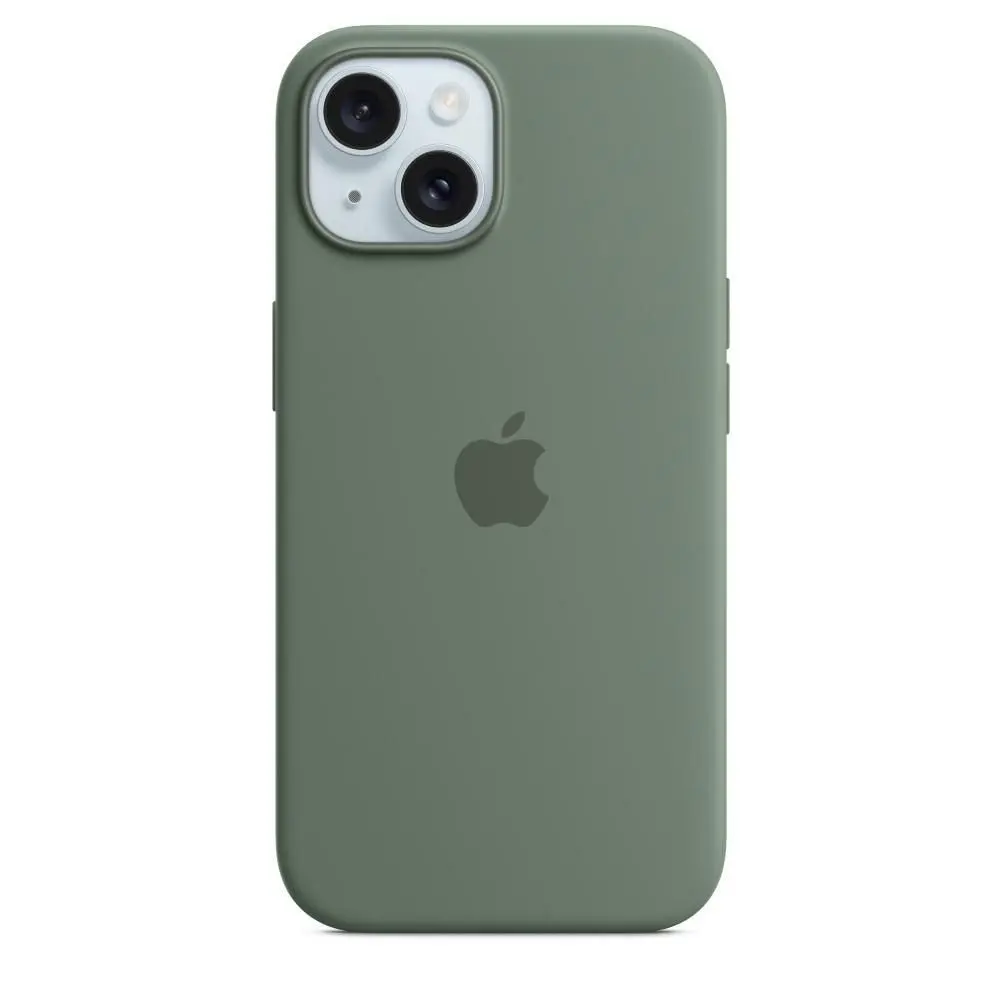
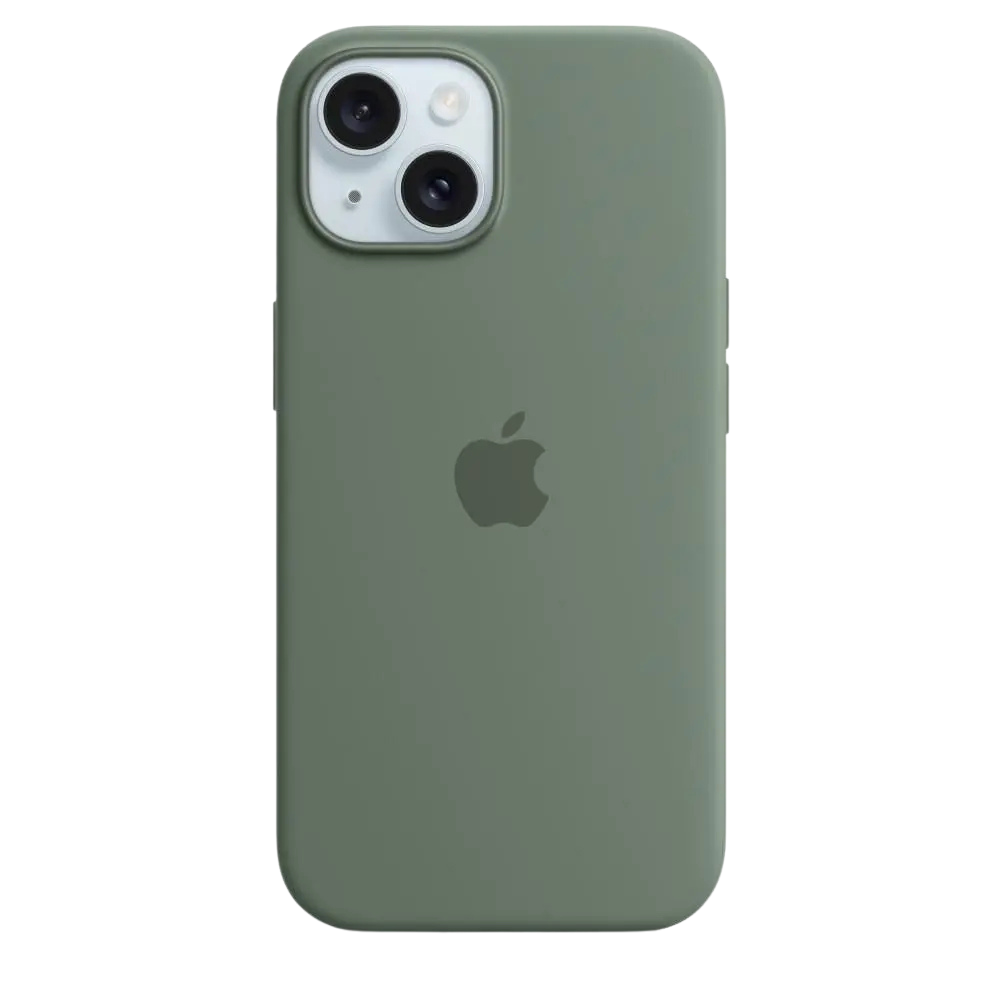
Motos adicionadas e imagem das capinhas alteradas

Changed region(s): [[0.31, 0.93, 0.682, 0.961]]

diff --git a/motos.html b/motos.html
@@ -25,15 +25,27 @@
     <h2>Motos Elétricas</h2>
     <div class="produtos">
       <div class="produto">
-        <img src="assets/images/iphone.jpg" alt="iPhone" />
-        <h3>iPhone 14 Pro</h3>
-        <p>R$ 7.999,00</p>
+        <img src="./assets/imagens/Scooter Elétrica 350w Smart 350.jpg" alt="motos" />
+        <h3>Scooter Elétrica 350w Smart 350</h3>
+        <p>R$ 5.499,00</p>
         <button>Comprar</button>
       </div>
       <div class="produto">
-        <img src="assets/images/galaxy.jpg" alt="Galaxy" />
-        <h3>Samsung Galaxy S23</h3>
-        <p>R$ 6.299,00</p>
+        <img src="./assets/imagens/Scooter Elétrica Moto Chefe X12 1000W .jpg" alt="motos" />
+        <h3>Scooter Elétrica Moto Chefe X12 1000W</h3>
+        <p>R$ 10.900,00</p>
+        <button>Comprar</button>
+      </div>
+      <div class="produto">
+        <img src="./assets/imagens/Moto Chefe-Scooter Elétrica X11 3000w.jpg" alt="motos" />
+        <h3>Moto Chefe-Scooter Elétrica X11 3000w</h3>
+        <p>R$ 11.900,00</p>
+        <button>Comprar</button>
+      </div>
+      <div class="produto">
+        <img src="./assets/imagens/Bicicleta eletrica tipo biz.jpg" alt="motos" />
+        <h3>Bicicleta eletrica tipo biz</h3>
+        <p>R$ 7,999.90</p>
         <button>Comprar</button>
       </div>
     </div>

diff --git a/acessorios.html b/acessorios.html
@@ -55,7 +55,7 @@
         <button>Comprar</button>
       </div>
       <div class="produto">
-        <img src="./assets/imagens/CapinhaRosaAreia12.webp" alt="iPhone" />
+        <img src="./assets/imagens/CapinhaRosaAreia12.jpg" alt="iPhone" />
         <h3>Capinha Rosa Areia iPhone 12</h3>
         <p>R$ 139,00</p>
         <button>Comprar</button>
@@ -73,8 +73,14 @@
         <button>Comprar</button>
       </div>
       <div class="produto">
-        <img src="./assets/imagens/CapinhaVermelha12pro.webp" alt="iPhone" />
+        <img src="./assets/imagens/CapinhaVermelha12pro.jpg" alt="iPhone" />
         <h3>Capinha Vermelha iPhone 12 Pro</h3>
+        <p>R$ 139,00</p>
+        <button>Comprar</button>
+      </div>
+      <div class="produto">
+        <img src="./assets/imagens/CinzaCastanhoIphone15.jpg" alt="iPhone" />
+        <h3>Capinha Cinza Castanho iPhone 15</h3>
         <p>R$ 139,00</p>
         <button>Comprar</button>
       </div>
